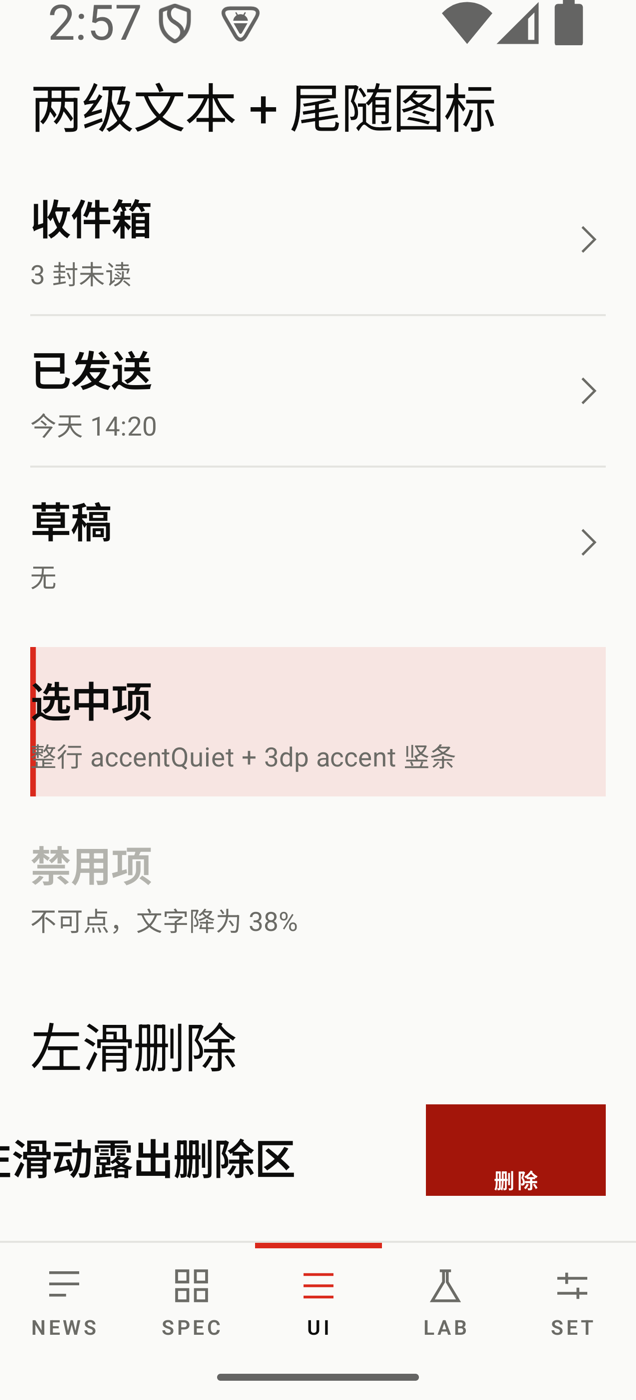
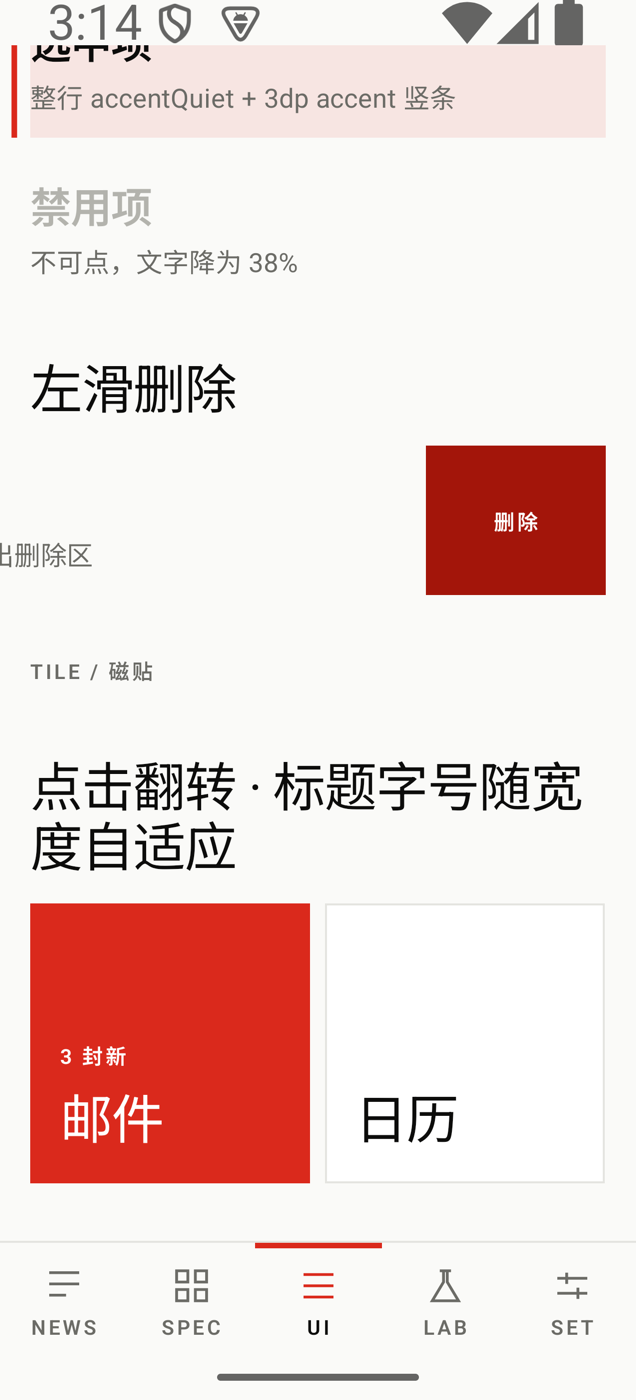
fix: v0.14.5 修复选中竖条遮字与左滑删除演示
- OmListItem：竖条改画在容器外（页边距内），3dp 条 + 7dp 间隙，不再盖住文字
- demo：左滑改为真实移除条目（之前 onDismiss 是空实现，滑完弹回像没反应）
- demo：Error Banner 补 onDismiss，可以关掉

文档：CHANGELOG，README 增加选中态截图

diff --git a/sample/src/main/kotlin/io/openmetro/sample/GalleryScreen.kt b/sample/src/main/kotlin/io/openmetro/sample/GalleryScreen.kt
@@ -34,6 +34,7 @@ import androidx.compose.foundation.layout.width
 import androidx.compose.foundation.pager.rememberPagerState
 import androidx.compose.runtime.Composable
 import androidx.compose.runtime.getValue
+import androidx.compose.runtime.key
 import androidx.compose.runtime.mutableFloatStateOf
 import androidx.compose.runtime.mutableIntStateOf
 import androidx.compose.runtime.mutableStateOf
@@ -122,6 +123,8 @@ fun GalleryScreen() {
     var sideSheetVisible by remember { mutableStateOf(false) }
     var bannerVisible by remember { mutableStateOf(true) }
     var tags by remember { mutableStateOf(listOf("设计", "排版")) }
+    var swipeRows by remember { mutableStateOf(listOf("条目一", "条目二")) }
+    var errorBannerVisible by remember { mutableStateOf(true) }
     var drawerVisible by remember { mutableStateOf(false) }
     var railIndex by remember { mutableIntStateOf(0) }
 
@@ -388,12 +391,23 @@ fun GalleryScreen() {
         OmListItem(title = "禁用项", subtitle = "不可点，文字降为 38%", enabled = false)
 
         SubTitle("左滑删除")
-        OmSwipeToDismiss(onDismiss = {}) {
-            OmListItem(
-                title = "向左滑动露出删除区",
-                subtitle = "拖过 60% 触发，否则回弹",
-                onClick = {},
+        if (swipeRows.isEmpty()) {
+            OmText(
+                text = "都删掉了。重新进入本页可恢复。",
+                style = typography.caption,
+                color = colors.textSecondary,
             )
+        }
+        swipeRows.forEach { row ->
+            key(row) {
+                OmSwipeToDismiss(onDismiss = { swipeRows = swipeRows - row }) {
+                    OmListItem(
+                        title = row,
+                        subtitle = "向左滑动露出删除区",
+                        onClick = {},
+                    )
+                }
+            }
         }
     }
 
@@ -676,12 +690,15 @@ fun GalleryScreen() {
             )
         }
         Spacer(Modifier.height(spacing.space2))
-        OmBanner(
-            text = "无法连接到服务器，请检查网络。",
-            tone = OmBannerTone.Error,
-            actionLabel = "重试",
-            onAction = {},
-        )
+        if (errorBannerVisible) {
+            OmBanner(
+                text = "无法连接到服务器，请检查网络。",
+                tone = OmBannerTone.Error,
+                actionLabel = "重试",
+                onAction = {},
+                onDismiss = { errorBannerVisible = false },
+            )
+        }
 
         SubTitle("Error state")
         OmErrorState(

diff --git a/omui-components/src/main/kotlin/io/openmetro/ui/component/content/OmList.kt b/omui-components/src/main/kotlin/io/openmetro/ui/component/content/OmList.kt
@@ -13,6 +13,7 @@ import androidx.compose.runtime.Composable
 import androidx.compose.ui.Alignment
 import androidx.compose.ui.Modifier
 import androidx.compose.ui.draw.drawBehind
+import androidx.compose.ui.geometry.Offset
 import androidx.compose.ui.geometry.Size
 import androidx.compose.ui.graphics.Color
 import androidx.compose.ui.semantics.Role
@@ -53,7 +54,8 @@ fun <T> OmList(
  * 列表项：主文本 22sp/600 + 可选次级文本，贴齐网格、无左图标缩进。
  *
  * 选中态 = 整行 `accentQuiet` 底色 + start 侧 3dp accent 竖条。竖条用 `drawBehind`
- * 绘制，不占布局宽度 —— 否则选中与未选中的文字会差 3dp 而左右跳动。
+ * 画在容器左边界**之外**（也就是页边距里），既不占布局宽度、不引起文字跳动，
+ * 也不会盖住文字。因此外层容器必须留出至少 3dp 的左边距（`OmScreen` 默认有 16dp）。
  *
  * 高度由内容决定，最小 56dp；分隔线由 [OmList] 负责，本组件不画。
  */
@@ -86,9 +88,13 @@ fun OmListItem(
             .background(if (selected) colors.accentQuiet else Color.Transparent)
             .drawBehind {
                 if (selected) {
+                    // 画到容器左边界之外（页边距里）：与文字留 7dp 呼吸，
+                    // 同时文字保持 flush-left 不被盖住、也不会因选中而跳动
+                    val barWidth = 3.dp.toPx()
                     drawRect(
                         color = colors.accent,
-                        size = Size(width = 3.dp.toPx(), height = size.height),
+                        topLeft = Offset(x = -barWidth - 7.dp.toPx(), y = 0f),
+                        size = Size(width = barWidth, height = size.height),
                     )
                 }
             }

diff --git a/CHANGELOG.md b/CHANGELOG.md
@@ -2,6 +2,16 @@
 
 按版本倒序，只列改了什么。
 
+## v0.14.5 · 2026-10-24
+
+三个真机反馈的问题。
+
+### 修复
+
+- `OmListItem` 的选中竖条画在 `x = 0..3dp`，而文字也从 `x = 0` 开始，竖条把文字左边缘盖住了。改为画在容器左边界**之外**（也就是页边距里）：3dp 条 + 7dp 间隙，文字位置不变、选中与否不跳动。
+- demo 的左滑删除把 `onDismiss` 写成空实现，滑完立刻弹回，看起来像「完全没反应」。改为真实移除条目，并用 `key` 保证列表重组正确。
+- demo 的 Error Banner 漏了 `onDismiss`，那条红色提示关不掉。
+
 ## v0.14.2 · 2026-10-24
 
 两个真机上暴露的问题。

diff --git a/README.zh-CN.md b/README.zh-CN.md
@@ -188,6 +188,7 @@ OmSearchField(value = query, onValueChange = { query = it })
 `OmList` 在项之间插入 hairline，最后一项不画。选中态是 `drawBehind` 画的 3dp 强调条，不占布局宽度，文字不会横向跳。
 
 <img src="images/06-list.png" width="240" />
+<img src="images/24-selected.png" width="240" />
 <img src="images/08-cards.png" width="240" />
 
 ```kotlin

diff --git a/README.md b/README.md
@@ -188,6 +188,7 @@ OmSearchField(value = query, onValueChange = { query = it })
 `OmList` inserts hairlines between items and skips the last one. Selection is a 3dp accent bar drawn behind the row, so it never shifts the text.
 
 <img src="images/06-list.png" width="240" />
+<img src="images/24-selected.png" width="240" />
 <img src="images/08-cards.png" width="240" />
 
 ```kotlin
